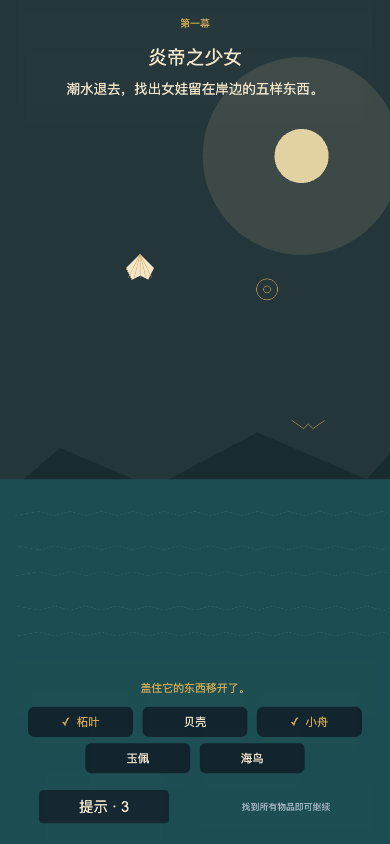
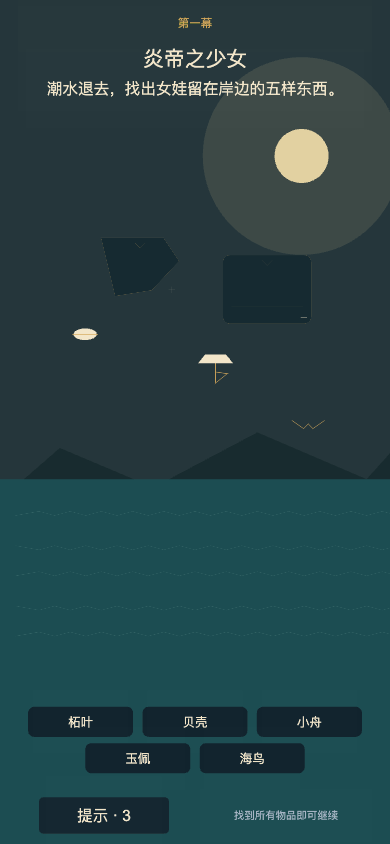
Enlarge typography and respect Android bottom safe area

diff --git a/wechat-minigame/assets/scripts/SpikeController.ts b/wechat-minigame/assets/scripts/SpikeController.ts
@@ -75,6 +75,7 @@ export class SpikeController extends Component {
   private chapter: Chapter | null = null;
   private viewLayer: Node | null = null;
   private safeTop = 0;
+  private safeBottom = 0;
   private actIndex = 0;
   private pageIndex = 0;
   private foundIds = new Set<string>();
@@ -96,6 +97,7 @@ export class SpikeController extends Component {
 
   start() {
     this.safeTop = this.getSafeTop();
+    this.safeBottom = this.getSafeBottom();
     this.progressAct = this.readProgress();
     this.showLoading();
     resources.load('chapters/jingwei', JsonAsset, (error, asset) => {
@@ -144,6 +146,29 @@ export class SpikeController extends Component {
       clearTimeout(this.autoTimer);
       this.autoTimer = null;
     }
+  }
+
+  private getSafeBottom(): number {
+    const wxApi = (globalThis as any).wx;
+    if (!wxApi) return 0;
+    try {
+      const info = wxApi.getWindowInfo
+        ? wxApi.getWindowInfo()
+        : (wxApi.getSystemInfoSync ? wxApi.getSystemInfoSync() : null);
+      if (!info || !info.safeArea || !info.windowWidth) return 0;
+      const scale = view.getVisibleSize().width / info.windowWidth;
+      const inset = (info.windowHeight - info.safeArea.bottom) * scale;
+      const safeBottom = Math.max(0, inset + 36);
+      console.log('[Jingwei] safe bottom', { safeBottom, inset, safeArea: info.safeArea });
+      return safeBottom;
+    } catch (error) {
+      console.warn('[Jingwei] safe bottom failed', error);
+      return 0;
+    }
+  }
+
+  private bottomY(offset: number): number {
+    return -view.getVisibleSize().height / 2 + this.safeBottom + offset;
   }
 
   private readProgress(): number {
@@ -229,7 +254,7 @@ export class SpikeController extends Component {
     g.strokeColor = primary ? new Color(255, 229, 166, 180) : new Color(213, 168, 90, 120);
     g.roundRect(-w / 2, -h / 2, w, h, 8);
     g.stroke();
-    const l = this.label(text, 0, 0, 28, primary ? INK : PAPER, w - 30);
+    const l = this.label(text, 0, 0, 30, primary ? INK : PAPER, w - 30);
     l.node.removeFromParent();
     n.addChild(l.node);
     l.node.setPosition(0, 0);
@@ -267,10 +292,10 @@ export class SpikeController extends Component {
 
     // Sky glow / moon
     g.fillColor = storm ? new Color(115, 135, 140, 24) : new Color(226, 202, 145, 32);
-    g.circle(205, h / 2 - 300, 190);
+    g.circle(240, h / 2 - 300, 190);
     g.fill();
     g.fillColor = storm ? new Color(170, 180, 178, 210) : new Color(244, 224, 171, 230);
-    g.circle(205, h / 2 - 300, 52);
+    g.circle(240, h / 2 - 300, 48);
     g.fill();
 
     // Distant mountains
@@ -343,8 +368,8 @@ export class SpikeController extends Component {
   private header(kicker: string, title: string) {
     const top = view.getVisibleSize().height / 2;
     const y = top - this.safeTop;
-    this.label(kicker, 0, y - 44, 19, GOLD, 680);
-    this.label(title, 0, y - 110, 36, PAPER, 680);
+    this.label(kicker, 0, y - 44, 22, GOLD, 680);
+    this.label(title, 0, y - 112, 40, PAPER, 680);
   }
 
   private showLoading() {
@@ -366,12 +391,12 @@ export class SpikeController extends Component {
     this.drawScene(0, 'title');
     const top = view.getVisibleSize().height / 2;
     const shift = this.safeTop;
-    this.label('解谜涨知识', 0, top - shift - 170, 72, PAPER);
-    this.label('之 · 山海经', 0, top - shift - 250, 34, GOLD);
-    this.label('读故事 · 寻线索 · 收小笺', 0, top - shift - 315, 24, MUTED);
+    this.label('解谜涨知识', 0, top - shift - 170, 76, PAPER);
+    this.label('之 · 山海经', 0, top - shift - 252, 38, GOLD);
+    this.label('读故事 · 寻线索 · 收小笺', 0, top - shift - 320, 27, MUTED);
 
     const label = this.progressAct >= 3 ? '再读一遍 · 精卫填海' : (this.progressAct > 0 ? '继续 · 精卫填海' : '开始 · 精卫填海');
-    this.button(label, 0, -view.getVisibleSize().height / 2 + 155, 560, 86, () => {
+    this.button(label, 0, this.bottomY(110), 560, 90, () => {
       if (this.progressAct > 0 && this.progressAct < 3) {
         this.showActCard(this.progressAct);
       } else {
@@ -379,19 +404,19 @@ export class SpikeController extends Component {
       }
     }, true);
 
-    this.label('每章三幕 · 一幕一谜 · 篇末一张山海小笺', 0, -view.getVisibleSize().height / 2 + 70, 17, MUTED);
+    this.label('每章三幕 · 一幕一谜 · 篇末一张山海小笺', 0, this.bottomY(24), 20, MUTED);
   }
 
   private showChapterCard() {
     this.clearView();
     this.drawScene(0, 'blank');
-    const h = view.getVisibleSize().height;
-    this.label('第 一 篇', 0, 220, 20, GOLD);
-    this.label('精卫填海', 0, 80, 60, PAPER);
-    this.label('炎帝之少女，溺而不返，化为精卫。', 0, -20, 24, MUTED, 620);
-    this.label('三幕 · 三个谜 · 一张山海小笺', 0, -85, 18, GOLD);
-    this.label('点击继续', 0, -h / 2 + 90, 18, MUTED);
+    this.label('第 一 篇', 0, 220, 24, GOLD);
+    this.label('精卫填海', 0, 80, 64, PAPER);
+    this.label('炎帝之少女，溺而不返，化为精卫。', 0, -20, 28, MUTED, 620);
+    this.label('三幕 · 三个谜 · 一张山海小笺', 0, -90, 22, GOLD);
+    this.label('点击继续', 0, this.bottomY(24), 22, MUTED);
 
+    const h = view.getVisibleSize().height;
     const skip = this.uiNode('Skip', 750, h);
     skip.on(Node.EventType.TOUCH_END, () => {
       this.clearAuto();
@@ -411,9 +436,9 @@ export class SpikeController extends Component {
     this.clearView();
     this.drawScene(index, 'blank');
     const act = this.chapter.acts[index];
-    this.label(act.kicker, 0, 190, 20, GOLD);
-    this.label(act.title, 0, 80, 48, PAPER, 680);
-    this.label('点击继续', 0, -view.getVisibleSize().height / 2 + 90, 18, MUTED);
+    this.label(act.kicker, 0, 190, 24, GOLD);
+    this.label(act.title, 0, 80, 52, PAPER, 680);
+    this.label('点击继续', 0, this.bottomY(24), 22, MUTED);
 
     const skip = this.uiNode('Skip', 750, view.getVisibleSize().height);
     skip.on(Node.EventType.TOUCH_END, () => {
@@ -437,11 +462,11 @@ export class SpikeController extends Component {
     this.header(act.kicker, act.title);
 
     const h = view.getVisibleSize().height;
-    const panelY = -h / 2 + 330;
-    this.panel(0, panelY, 660, 440);
-    this.label(act.pages[pageIndex], 0, panelY + 35, 32, PAPER, 590, 250);
-    this.label(`${pageIndex + 1} / ${act.pages.length}`, 0, panelY - 155, 20, MUTED);
-    this.button(pageIndex === act.pages.length - 1 ? '进入本幕谜题' : '继续', 0, -h / 2 + 105, 540, 82, () => {
+    const panelY = this.bottomY(360);
+    this.panel(0, panelY, 660, 430);
+    this.label(act.pages[pageIndex], 0, panelY + 35, 36, PAPER, 590, 260);
+    this.label(`${pageIndex + 1} / ${act.pages.length}`, 0, panelY - 155, 24, MUTED);
+    this.button(pageIndex === act.pages.length - 1 ? '进入本幕谜题' : '继续', 0, this.bottomY(75), 540, 86, () => {
       this.showStory(actIndex, pageIndex + 1);
     });
   }
@@ -463,9 +488,9 @@ export class SpikeController extends Component {
     const areaBottom = bottom + 355;
     const areaTop = top - this.safeTop - 190;
 
-    this.label(act.puzzle.prompt, 0, top - this.safeTop - 170, 26, PAPER, 650);
+    this.label(act.puzzle.prompt, 0, top - this.safeTop - 170, 30, PAPER, 650);
     this.progressLabel = null;
-    this.hintText = this.label('', 0, bottom + 300, 21, GOLD, 690);
+    this.hintText = this.label('', 0, this.bottomY(300), 24, GOLD, 690);
 
     for (const target of act.puzzle.targets) {
       const px = -330 + target.x * 660;
@@ -493,8 +518,9 @@ export class SpikeController extends Component {
 
     const pillW = 202;
     const pillH = 58;
-    const row1Y = bottom + 235;
-    const row2Y = bottom + 165;
+    const listLift = this.safeBottom;
+    const row1Y = bottom + 235 + listLift;
+    const row2Y = bottom + 165 + listLift;
     act.puzzle.targets.forEach((target, index) => {
       let x = 0;
       let y = row1Y;
@@ -507,9 +533,9 @@ export class SpikeController extends Component {
       this.makePill(target, x, y, pillW, pillH);
     });
 
-    const hintButton = this.button('提示 · 3', -175, bottom + 72, 250, 64, () => this.useHint(), false);
+    const hintButton = this.button('提示 · 3', -175, this.bottomY(55), 250, 70, () => this.useHint(), false);
     this.hintButtonLabel = hintButton.getComponentInChildren(Label);
-    this.label('找到所有物品即可继续', 175, bottom + 72, 17, MUTED, 330);
+    this.label('找到所有物品即可继续', 175, this.bottomY(55), 20, MUTED, 330);
   }
 
   private makePill(target: PuzzleTarget, x: number, y: number, w: number, h: number) {
@@ -523,7 +549,7 @@ export class SpikeController extends Component {
     g.strokeColor = new Color(213, 168, 90, 80);
     g.roundRect(-w / 2, -h / 2, w, h, 12);
     g.stroke();
-    const l = this.label(target.name, 0, 0, 22, PAPER, w - 20);
+    const l = this.label(target.name, 0, 0, 24, PAPER, w - 20);
     l.node.removeFromParent();
     n.addChild(l.node);
     l.node.setPosition(0, 0);
@@ -807,15 +833,15 @@ export class SpikeController extends Component {
     this.clearView();
     this.drawScene(this.actIndex, 'blank');
     const h = view.getVisibleSize().height;
-    this.panel(0, 30, 650, Math.min(720, h - 300));
-    this.label('山 海 小 笺', 0, 280, 22, GOLD);
-    this.label(act.title, 0, 205, 42, PAPER);
-    let y = 115;
+    this.panel(0, 30, 650, Math.min(840, h - 280));
+    this.label('山 海 小 笺', 0, 290, 26, GOLD);
+    this.label(act.title, 0, 210, 44, PAPER);
+    let y = 120;
     for (const line of act.knowledge) {
-      this.label(line, 0, y, 24, PAPER, 580, 130);
-      y -= 150;
+      this.label(line, 0, y, 28, PAPER, 580, 150);
+      y -= 160;
     }
-    this.button(this.actIndex < this.chapter.acts.length - 1 ? '收下小笺 · 进入下一幕' : '收下小笺 · 查看篇末', 0, -h / 2 + 105, 580, 82, () => {
+    this.button(this.actIndex < this.chapter.acts.length - 1 ? '收下小笺 · 进入下一幕' : '收下小笺 · 查看篇末', 0, this.bottomY(75), 580, 86, () => {
       if (this.actIndex < this.chapter!.acts.length - 1) this.showActCard(this.actIndex + 1);
       else this.showEnding();
     });
@@ -827,14 +853,14 @@ export class SpikeController extends Component {
     this.clearView();
     this.drawScene(2, 'blank');
     const h = view.getVisibleSize().height;
-    this.panel(0, 10, 660, Math.min(820, h - 260));
-    this.label('篇 末 · 山 海 小 笺', 0, 320, 22, GOLD);
-    this.label('精卫填海', 0, 245, 48, PAPER);
-    this.label('出自《山海经·北山经》', 0, 185, 20, GOLD);
-    this.label(this.chapter.source, 0, 55, 18, MUTED, 590, 230);
-    this.label('精卫填海：比喻意志坚决、不畏艰难。', 0, -200, 24, PAPER, 590);
-    this.label('“精卫衔微木，将以填沧海。” —— 陶渊明', 0, -275, 20, GOLD, 590);
-    this.button('回到卷首', 0, -h / 2 + 105, 520, 82, () => {
+    this.panel(0, 10, 660, Math.min(850, h - 240));
+    this.label('篇 末 · 山 海 小 笺', 0, 330, 26, GOLD);
+    this.label('精卫填海', 0, 250, 50, PAPER);
+    this.label('出自《山海经·北山经》', 0, 185, 23, GOLD);
+    this.label(this.chapter.source, 0, 45, 20, MUTED, 590, 240);
+    this.label('精卫填海：比喻意志坚决、不畏艰难。', 0, -210, 28, PAPER, 590);
+    this.label('“精卫衔微木，将以填沧海。” —— 陶渊明', 0, -285, 22, GOLD, 590);
+    this.button('回到卷首', 0, this.bottomY(75), 520, 86, () => {
       this.showTitle();
     });
   }

diff --git a/docs/wechat-cocos-spike.md b/docs/wechat-cocos-spike.md
@@ -128,7 +128,9 @@ Current art is deliberately placeholder: simple sea, mountains, bird, and target
 
 ### UI / puzzle pass
 
-- All text sizes were increased across the title, story, puzzle prompt, pills, knowledge cards and ending.
+- All text sizes were increased again: story body 36, knowledge body 28, prompt 30, pills 24, secondary labels 22–24, buttons 30.
+- The title banner `COCOS × WECHAT` was removed.
+- Bottom layout now uses `safeArea.bottom` from `wx.getWindowInfo()`; story buttons, puzzle pills, hint button, knowledge button and ending button are lifted above the Android navigation bar.
 - The `COCOS × WECHAT` banner was removed.
 - Puzzle targets no longer show text in the scene; they show only icons.
 - The target names now sit in rounded pills at the bottom. Found targets gain a `✓` prefix and gold text.
